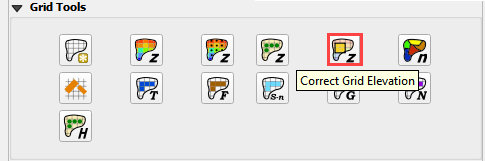
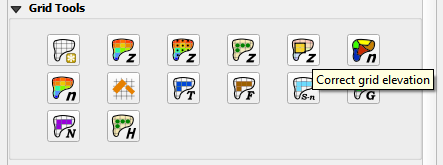
update style

diff --git a/docs/user/source/widgets/grid-tools/Elevation Correction Tool.rst b/docs/user/source/widgets/grid-tools/Elevation Correction Tool.rst
@@ -96,18 +96,24 @@ There are several grid element correction options available in this tool.
 
 -  Select any polygon layer.
 
+-  Select any polyline layer.
+
 -  Define the geometric predicate.
-   Grid centroid or grid element.
+   Grid centroid or grid element within the polygon.
 
--  Take the elevation from an attribute table.
+-  Take the elevation and correction from an attribute table.
 
--  Take the mean statistics from the elements within the polygons.
+-  Take the zonal statistics from the grid elements within the polygons.
+
+-  Take the zonal statistics from raster pixels within a polygon.
+
+-  Take the zonal statistics from raster pixels within a grid element selected by a polygon.
 
 -  Use only selected features or all features.
 
 .. image:: ../../img/Elevation-Correction-from-Polygons/Elevat012.png
 
-Method 1 Elevation Correction Polygon Attribute
+Method 1 Polygon Attribute
 -----------------------------------------------
 
 This method will apply a elevation to each grid element within the polygon from the elevation field of the polygon.
@@ -131,7 +137,7 @@ This method will apply a elevation to each grid element within the polygon from 
 
 .. image:: ../../img/Elevation-Correction-from-Polygons/Elevat015.png
 
-Method 2 Elevation Correction Raster within a Polygon
+Method 2 Raster within a Polygon
 -----------------------------------------------------
 
 This method will apply zonal statistics to a raster within a polygon to calculate the min, max or mean of an area.
@@ -156,16 +162,17 @@ This method will apply zonal statistics to a raster within a polygon to calculat
 
 .. image:: ../../img/Elevation-Correction-from-Polygons/Elevat017.png
 
-Method 3 Elevation Correction Raster within a Selection of Grid Elements
-------------------------------------------------------------------------
+Method 3 Polyline
+------------------------
 
-This method will apply zonal statistics to a raster within individual grid elements to calculate the min, max or mean elevation.
+This method will apply zonal statistics to a raster within individual grid elements that are intersected by a polyline
+with a buffer of width provided by an attribute field
 
-1. Import an elevation raster.
-
-2. Copy a group of grid elements to the Elevation Polygon Layer.
+1. Set up a polyline with a buffer that is approximately the width of a grid element or the width of a physical feature
+   that is covered by the polyline.
 
 .. image:: ../../img/Elevation-Correction-from-Polygons/Elevat018.png
+
 
 3. Click the Elevation Correction Tool and click Correct Grid Elevation
 
@@ -173,7 +180,7 @@ This method will apply zonal statistics to a raster within individual grid eleme
 
 4. Set up the Correct Grid Dialog as shown below and click OK.
 
-.. image:: ../../img/Elevation-Correction-from-Polygons/Elevat016.png
+.. image:: ../../img/Elevation-Correction-from-Polygons/Elevat019.png
 
 5. Click ok to complete the process.
 
@@ -183,4 +190,4 @@ This method will apply zonal statistics to a raster within individual grid eleme
 
 7. The figure below shows the change in elevation.
 
-.. image:: ../../img/Elevation-Correction-from-Polygons/Elevat017.png
+.. image:: ../../img/Elevation-Correction-from-Polygons/Elevat020.png

diff --git a/docs/user/source/widgets/infiltration-editor/Infiltration Editor.rst b/docs/user/source/widgets/infiltration-editor/Infiltration Editor.rst
@@ -202,7 +202,8 @@ SCS
 Global Uniform Infiltration
 ----------------------------
 
-The SCS infiltration editor can add global or spatially variable infiltration data to the INFIL.DAT file for infiltration curve numbers.
+The SCS infiltration editor can add global or spatially variable infiltration data to the INFIL.DAT file for
+infiltration curve numbers.
 
 1. Set up the Global Infiltration first.
    Click Global Infiltration.
@@ -230,6 +231,9 @@ The SCS infiltration editor can add global or spatially variable infiltration da
 
 Spatial Infiltration from User Layer
 ------------------------------------
+
+.. note:: This method is the most effective way to sample SCS data.  If using the other calculators, review SCS column
+          for errors.
 
 Spatially variable floodplain infiltration is set by digitizing infiltration polygons or importing infiltration polygons.
 Use the polygon editor to digitize spatially variable infiltration.
@@ -299,6 +303,10 @@ Curve Number Generator
 SCS Calculator Single Shapefile
 -------------------------------
 
+.. warning:: If applying this method, review min and max of the SCS field.  This method only works on polygon shapefiles
+             that have no geometric deficiencies.  If this method results in errors, copy the polygons to the User layer
+             field and use the User Layer Method.
+
 This option will add spatially variable infiltration data to the grid from a shapefile with one CN attribute field.
 
 1. Click the Calculate  
@@ -360,7 +368,7 @@ Horton
 Global Uniform Infiltration
 ---------------------------
 
-The Horton infiltration editor can add global or spatially variable infiltration data to the INFIL.DAT file for infiltration curve numbers.
+The Horton infiltration editor can add global or spatially variable infiltration data to the INFIL.DAT file for.
 
 1. Set up the Global Infiltration first.
    Click Global Infiltration.
